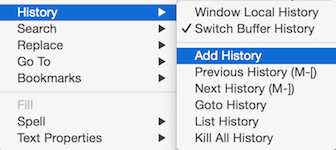
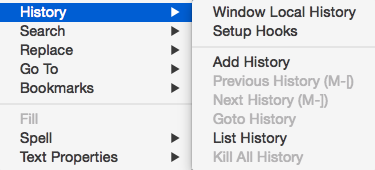
* Support history hooks, `history-add-before-functions` and `history-add-after-functions`.

diff --git a/README.md b/README.md
@@ -37,26 +37,29 @@ Basic Concept - Linked List Liked
                        and new one will be appended to the end.
 ```
 
-Usage
------
-* `M-x history-mode` Add menu items and tool-bar items of history utility.
+Usage - First Step, Enable `history-mode`
+-----------------------------------------
 
 ![history screenshot](demo/menu.png "history menu")
 ![history screenshot](demo/toolbar.png "history tool-bar")
 
-* `(history-add-history)` Save current point and buffer as a history into the database.
+* **`(history-add-history)`** Save current point and buffer as a history into the database.
 
-* `(history-add-history t)` Like above, but also save symbol string at point. When navigating to the history, the tool compare the matched string so that it makes sure the history is VALID.
+* **`(history-add-history t)`** Like above, but also save symbol string at point. When navigating to the history, the tool compare the matched string so that it makes sure the history is VALID.
 
-* `M-x history-prev-history` Goto previous history.
+* `M-x` **`history-prev-history`** Goto previous history.
 
-* `M-x history-next-history` Goto new history.
+* `M-x` **`history-next-history`** Goto new history.
 
-* `M-x history-kill-histories` Discard whole history database.
+* `M-x` **`history-kill-histories`** Discard whole history database.
 
-* `M-x history-goto-history` Enter history preview mode. `ENTER` to confirm to use the selected history. `ESC` to cancel preview and restore everything.
+* `M-x` **`history-goto-history`** Enter history preview mode. `ENTER` to confirm to use the selected history. `ESC` to cancel preview and restore everything.
 
 ![history screenshot](demo/history-goto-history.gif "goto history interactively")
+
+Advanced Usage
+--------------
+* `M-x` **`history-setup-hooks`** to add history for you automatically for specific functions!!!
 
 Customization
 -------------
@@ -68,9 +71,9 @@ Customization
 
 ![history screenshot](demo/window-local-history.png "window-local history")
 
-* `history-switch-buffer-history` Whether to add history when switching buffer.
+* `history-add-after-functions` and `history-add-after-functions`, a functions list to be **advised** to call `history-add-history`.
 
-![history screenshot](demo/switch-buffer-history.png "switch-buffer history")
+![history screenshot](demo/history-hooks.png "history hooks")
 
 Contribution
 ------------
